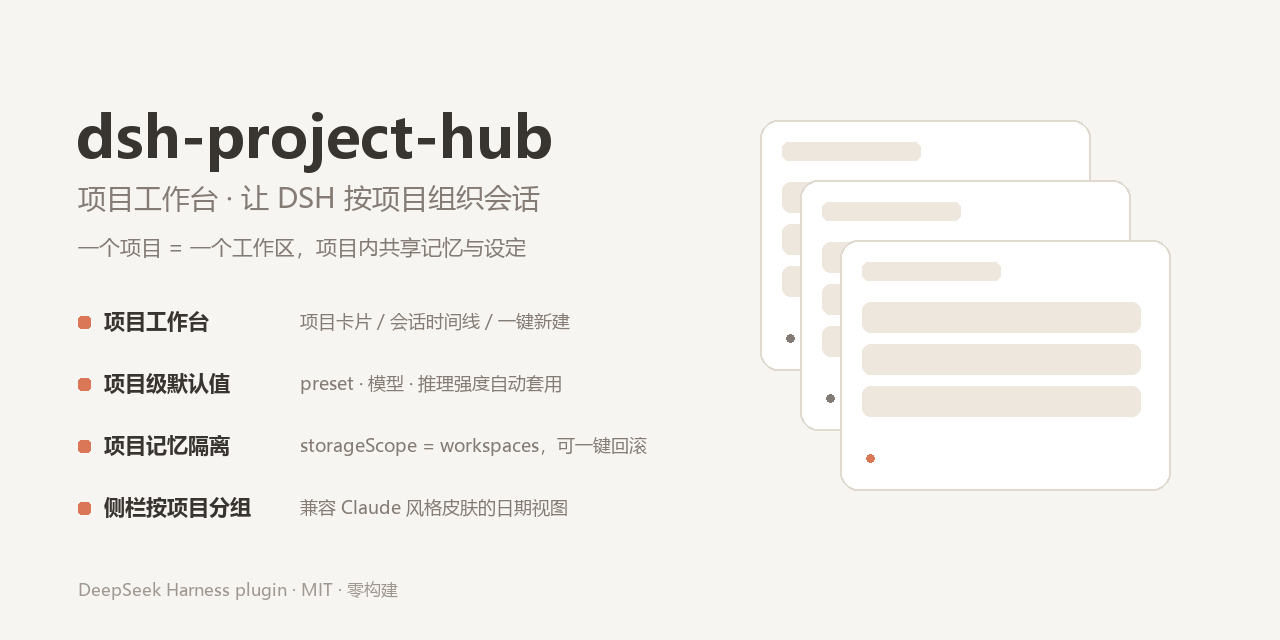
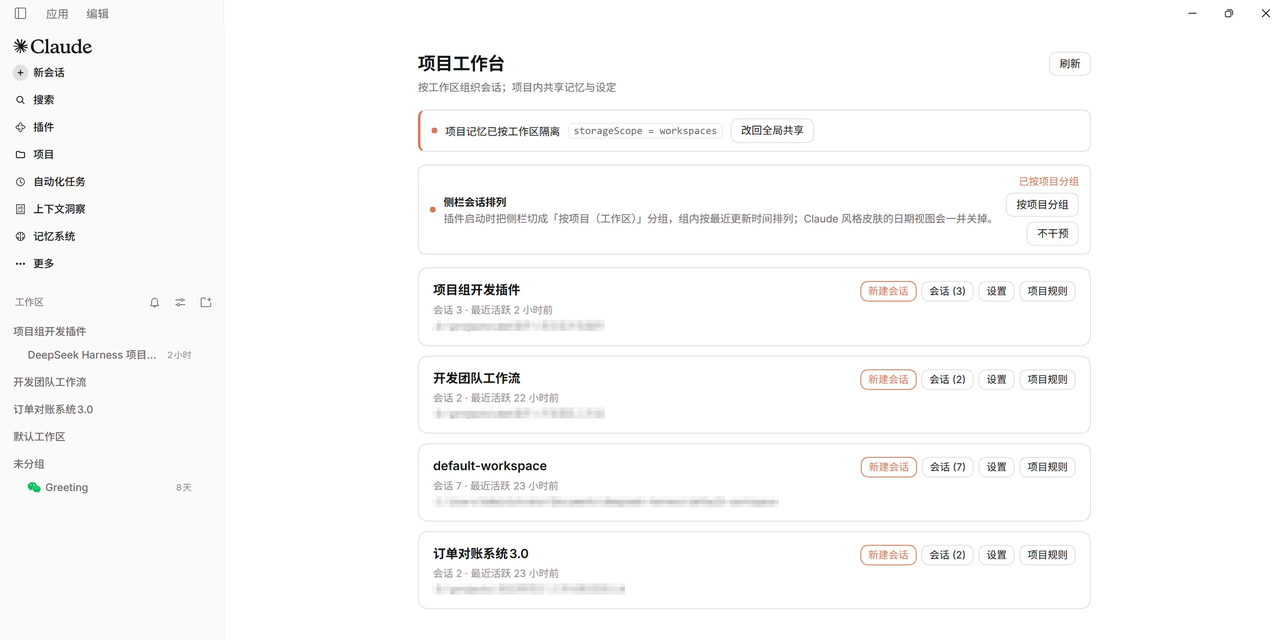
docs(images): 换成真实界面截图（本机路径已打码），README 首图改用整窗截图，social preview 更新为 1280x640

diff --git a/docs/images/README.md b/docs/images/README.md
@@ -1,17 +1,15 @@
 # 截图目录
 
-README 引用两张截图，文件名为固定约定（替换时保持同名即可）：
+README 与 GitHub Social preview 使用以下文件（替换时保持同名即可）：
 
-| 文件 | 内容 | 建议 |
+| 文件 | 内容 | 建议用途 |
 |---|---|---|
-| `project-panel.png` | 「项目」工作台面板：记忆条、侧栏排序条、若干项目卡片与会话 | 1280–1600px 宽，浅色主题 |
-| `sidebar-grouped.png` | 侧栏会话按项目（工作区）分组，组内按时间倒序 | 竖图 600–900px 宽 |
-| `social-preview.png` | GitHub 仓库 Social preview（1280×640） | 上传到仓库 Settings → Social preview |
+| `social-preview.png` | 真实界面整窗截图（侧栏按项目分组 + 项目工作台面板），**1280×640（2:1）** | README 首图；GitHub 仓库 Settings → Social preview 上传 |
+| `project-panel.png` | 项目工作台面板特写 | README「截图」明细 |
+| `sidebar-grouped.png` | 侧栏会话按项目（工作区）分组 | README「截图」明细 |
 
-截图要求：
+说明：
 
-1. 用真实 DSH 界面（桌面或 Web 均可），不要出现 API Key、token、会话正文等敏感信息；
-2. 项目名/路径可打码或替换成示例项目；
-3. 建议 PNG，非必要不压缩；保持界面清晰可读。
-
-当前仓库里的三张是**生成的占位图/示意图**（前两张带「截图占位图」字样）。换成真实截图后可直接删除本文件里的占位说明。
+- 三张图来自同一张真实界面截图（2026-11-11）的裁切与缩放；图中**本机路径已像素化打码**，项目名保留；
+- 更新截图时：面板截图存 `project-panel.png`、侧栏截图存 `sidebar-grouped.png`，Social preview 用 1280×640；
+- 不要把 API Key、token、会话正文等敏感内容截进图里。

diff --git a/README.en.md b/README.en.md
@@ -8,7 +8,9 @@ A Web client plugin for [DeepSeek Harness (DSH)](https://github.com/deepseek-ai/
 [![DSH](https://img.shields.io/badge/DSH-%3E%3D0.2.0--rc.2-4c8bf5)](https://github.com/deepseek-ai/deepseek-harness)
 [![platform](https://img.shields.io/badge/platform-Web%20%2F%20Desktop-lightgrey)](#compatibility)
 
-![Project workbench panel](docs/images/project-panel.png)
+<img src="docs/images/social-preview.png" alt="Project workbench: sidebar grouped by project and the project panel" width="900">
+
+> Real UI screenshot; local file paths are redacted.
 
 ## Why
 

diff --git a/README.md b/README.md
@@ -9,7 +9,9 @@
 [![platform](https://img.shields.io/badge/platform-Web%20%2F%20Desktop-lightgrey)](#兼容性)
 [![CI](https://github.com/shipinlei/dsh-project-hub/actions/workflows/ci.yml/badge.svg)](https://github.com/shipinlei/dsh-project-hub/actions/workflows/ci.yml)
 
-![项目工作台面板](docs/images/project-panel.png)
+<img src="docs/images/social-preview.png" alt="项目工作台：侧栏按项目分组 + 项目面板" width="900">
+
+> 截图为真实界面；其中本机路径已打码。
 
 ## 它解决什么
 
